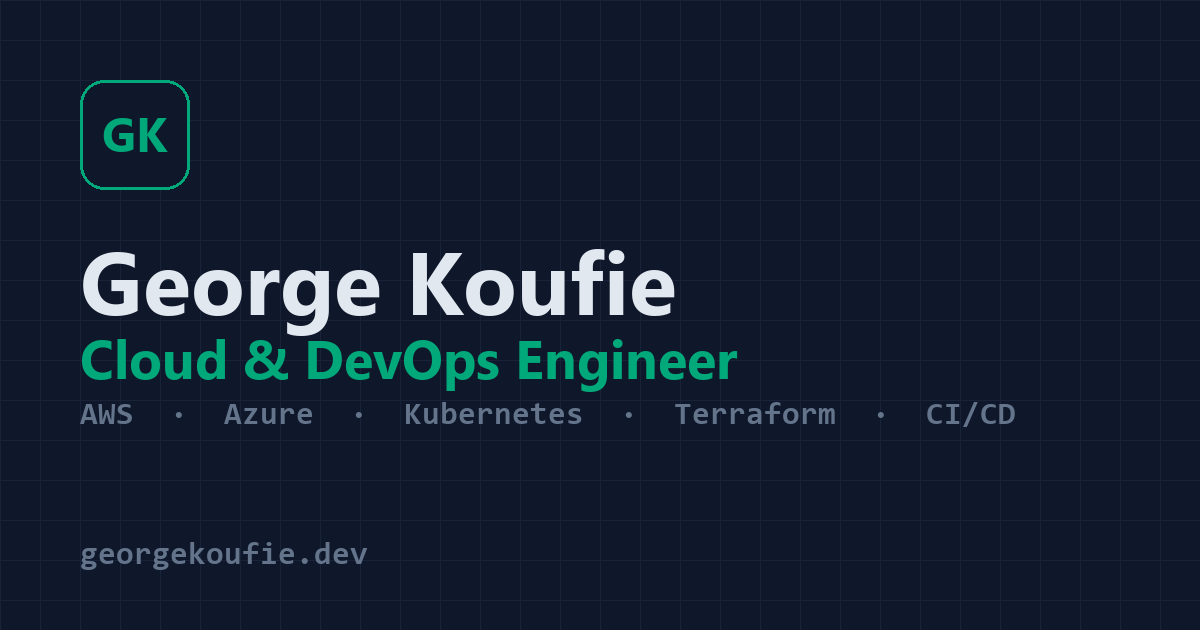
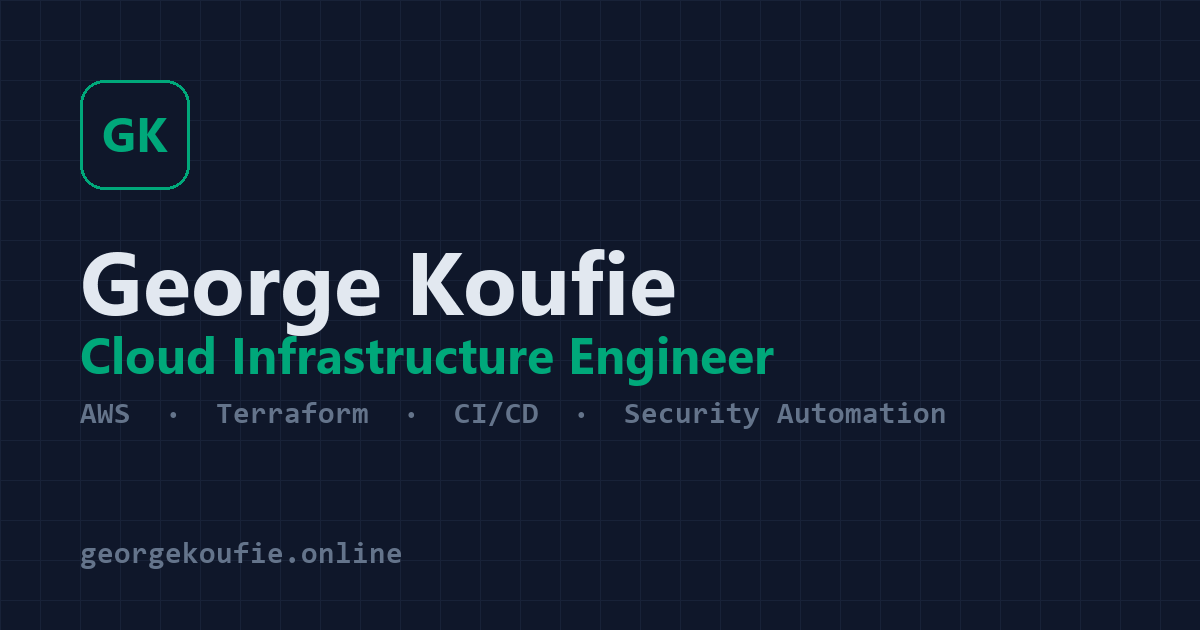
Optimize page weight and fix stale OG image content
- Dropped Inter font-weight 500 from the Google Fonts request - grepped
  the CSS and confirmed it's never actually applied anywhere, so it was
  a pure wasted download on every visit
- Regenerated og-image.png: it still had the pre-realignment content
  ("Cloud & DevOps Engineer", Azure/Kubernetes, georgekoufie.dev) from
  before the resume-alignment and domain-switch work earlier in this
  project. This is the image that renders in social/LinkedIn link
  previews, so shipping stale branding there mattered more than its
  file size - fixed the content and, since it's a flat-design graphic
  with a small color palette, quantized it too: 38.5KB -> 14.8KB with
  no visible quality loss

diff --git a/index.html b/index.html
@@ -37,7 +37,7 @@
   <!-- ─── FONTS ─── -->
   <link rel="preconnect" href="https://fonts.googleapis.com" />
   <link rel="preconnect" href="https://fonts.gstatic.com" crossorigin />
-  <link href="https://fonts.googleapis.com/css2?family=Space+Mono:wght@400;700&family=Bebas+Neue&family=Inter:wght@300;400;500&display=swap" rel="stylesheet" />
+  <link href="https://fonts.googleapis.com/css2?family=Space+Mono:wght@400;700&family=Bebas+Neue&family=Inter:wght@300;400&display=swap" rel="stylesheet" />
 
   <!-- ─── STYLES ─── -->
   <link rel="stylesheet" href="assets/css/main.css" />
